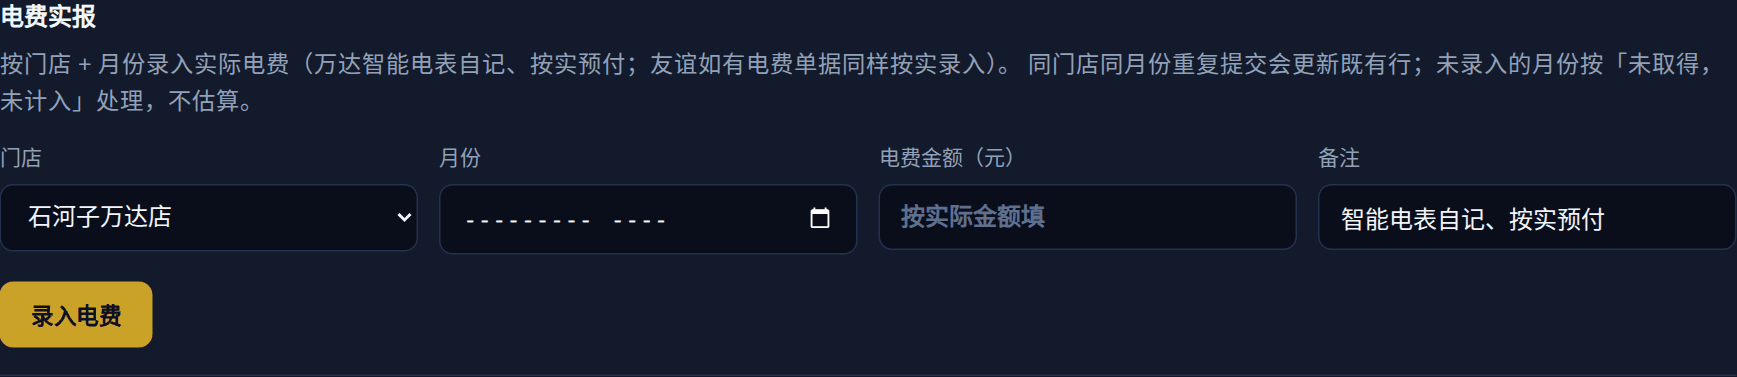
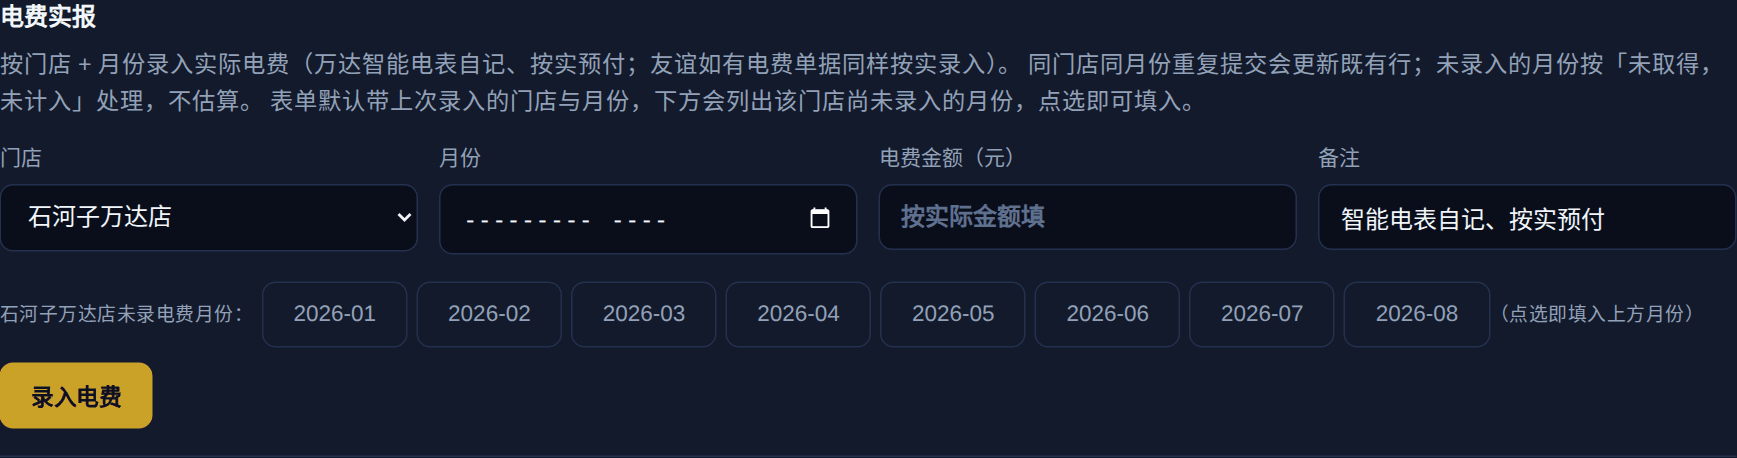
指令71-A7 手册增补：/help三处只增补不改口径节——电费链路补默认带上次值+未录月份点选说明、老板动线定目标补可选本月/下月与预填现值/收起说明、遇到问题补三角色点验材料引用（71-A3两份清单）；随增补重拍八图：costs-utilities因71-A4界面变化37695B按规矩重新采纳基线（BASE 25009→37695、CAPS=ceil×1.3→49004，注明轮次），expenses +23B在容差内不调基线，余六图逐字节不变；图注当日；全量回归604全绿

diff --git a/app/help/page.tsx b/app/help/page.tsx
@@ -257,6 +257,7 @@ export default async function HelpPage() {
               → 写入门店成本（<span className="en">store_costs</span>，类型=水电）→ 自动进入爱回收仪表盘净利暂定、
               「公司花费拆分」下钻与总览成本拆解，不需要再到别处登记。未录入的月份按「未取得，未计入」处理，不估算、不编造读数；
               万达备注预填「智能电表自记、按实预付」；同门店同月份重复提交是更新既有行，不会重复计。
+              录入区会默认带上最近一次录入的门店与月份，并列出该门店尚未录入的月份，点一下月份即可填入，不用逐月翻找。
             </li>
             <li>
               <strong>两店合同要点（已进成本核算）：</strong>
@@ -451,6 +452,7 @@ export default async function HelpPage() {
             </li>
             <li>
               <strong>定目标：</strong>回总览「月度目标」卡设定本月目标（当月分润 / 公司口径净利 / 当月单量三选一，卡面会标明所选口径），之后在同一张卡看目标、实际与达成率。
+              目标月份可选到本月与下月：还没有数据的月份可以先设目标，实际出来前卡面标「待核算」；调整已设的目标时表单会带出当前值，改完保存即可，点「收起」关表单。
             </li>
             <li>
               <strong>管成员与数据状态：</strong>邀请新成员先在「成员与权限」（/members）的「待邀请名单」登记邮箱、意向角色与意向授权，
@@ -562,6 +564,10 @@ export default async function HelpPage() {
         <div className="card">
           <p style={{ margin: 0, lineHeight: 1.65 }}>
             登录失败、密码遗忘、板块未开通、数据有疑问，请联系老板处理。密码遗忘时由老板重发邀请邮件，按邮件链接重新设置密码。
+          </p>
+          <p style={{ margin: "10px 0 0", lineHeight: 1.65 }}>
+            新账号首次登录后，老板会按三角色点验材料逐项确认可见范围（仓库 docs/清单_三角色真机验证.md 与
+            docs/清单_乐观更新真机验证.md）；看到的页面与自己角色不符时，把页面名称告诉老板即可。
           </p>
         </div>
       </main>
